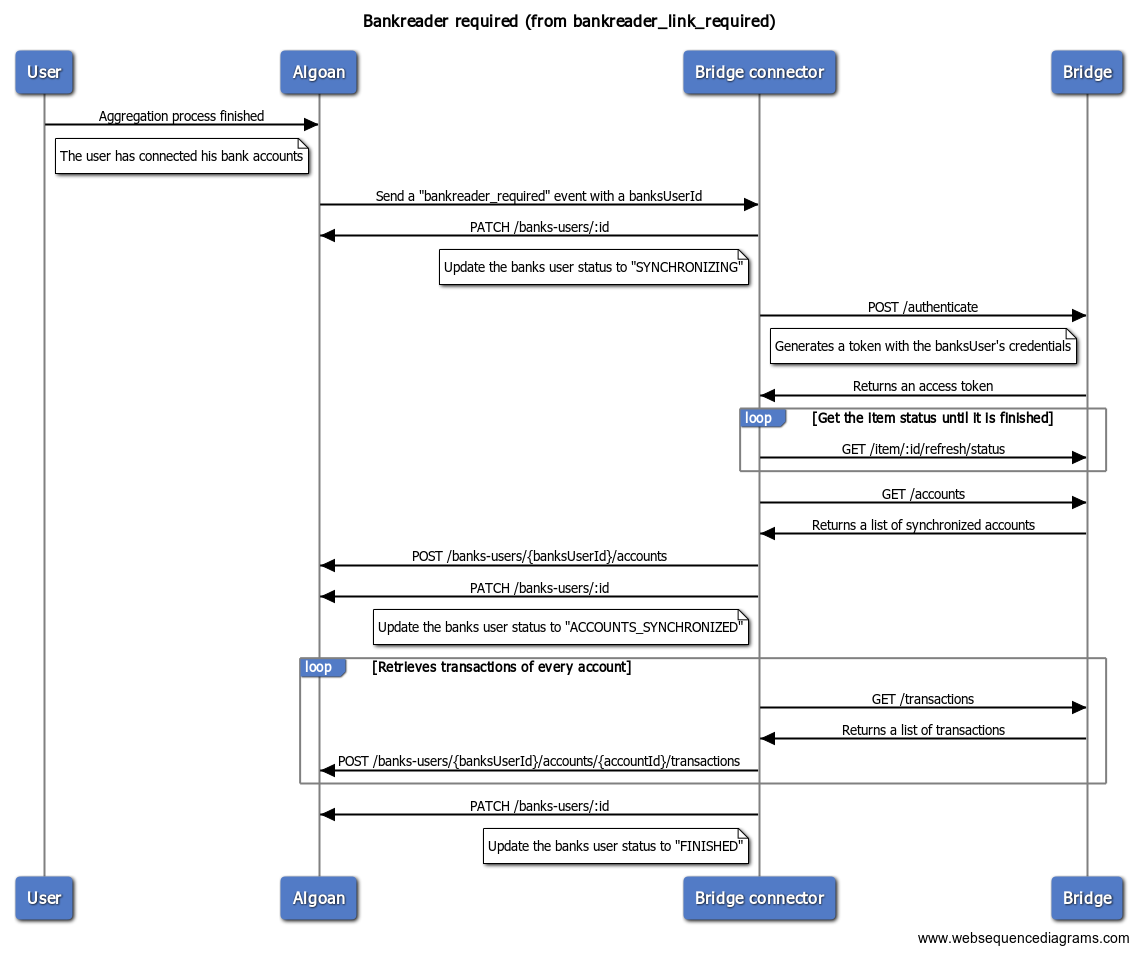
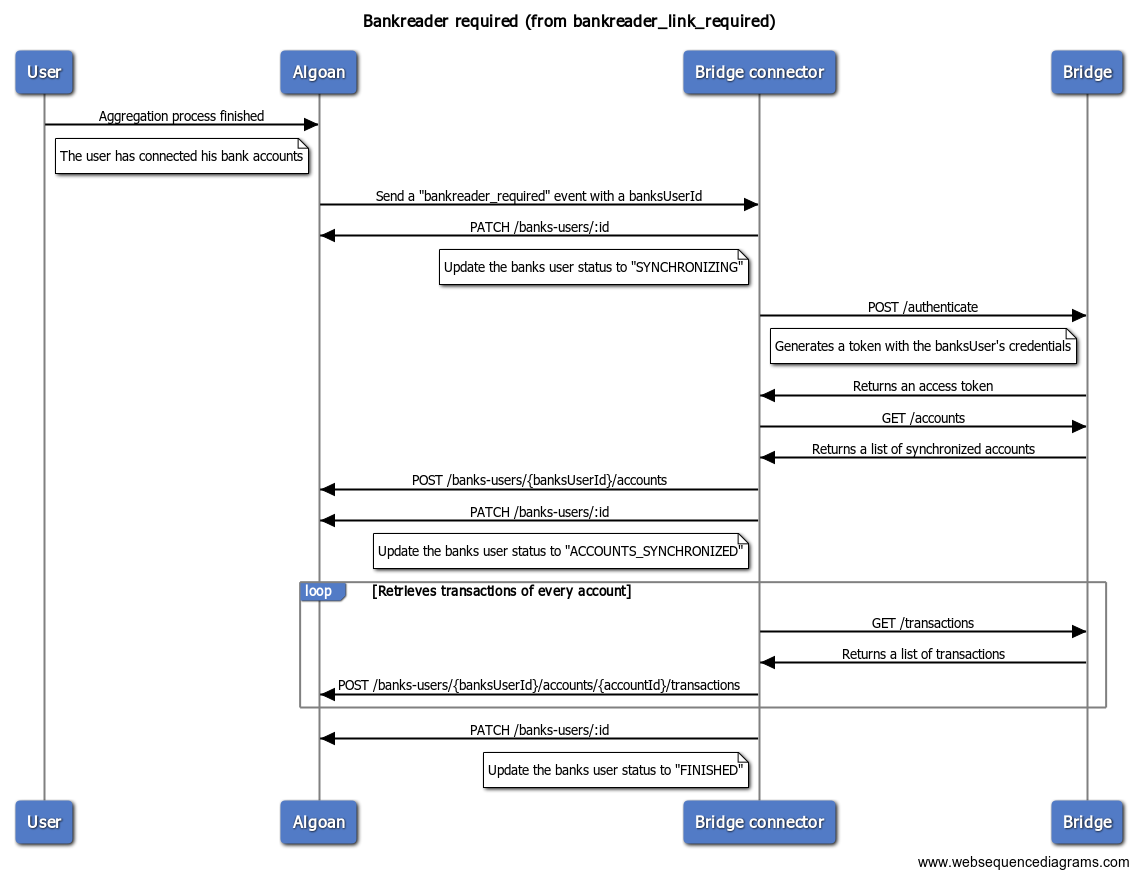
feat(bankreaderrequired): remove useless status check

diff --git a/src/hooks/services/hooks.service.ts b/src/hooks/services/hooks.service.ts
@@ -18,13 +18,12 @@ import * as moment from 'moment';
 import * as delay from 'delay';
 import { AlgoanService } from '../../algoan/algoan.service';
 import { AggregatorService } from '../../aggregator/services/aggregator.service';
-import { BridgeAccount, BridgeTransaction, BridgeItem } from '../../aggregator/interfaces/bridge.interface';
+import { BridgeAccount, BridgeTransaction } from '../../aggregator/interfaces/bridge.interface';
 import { mapBridgeAccount, mapBridgeTransactions } from '../../aggregator/services/bridge/bridge.utils';
 import { EventDTO } from '../dto/event.dto';
 import { BankreaderLinkRequiredDTO } from '../dto/bandreader-link-required.dto';
 import { BankreaderRequiredDTO } from '../dto/bankreader-required.dto';
 import { ClientConfig } from '../../aggregator/services/bridge/bridge.client';
-const SYNCHRONIZATION_WAITING_TIME: number = config.bridge.synchronizationWaitingTime;
 
 /**
  * Hook service
@@ -141,35 +140,7 @@ export class HooksService {
     const accessToken = await this.aggregator.getAccessToken(banksUser, serviceAccount.config as ClientConfig);
 
     /**
-     * 2. Fetch user active items
-     */
-    let synchronizationCompleted = false;
-    const timeout = moment().add(config.bridge.synchronizationTimeout, 'seconds');
-
-    while (!synchronizationCompleted && moment().isBefore(timeout)) {
-      const items: BridgeItem[] = await this.aggregator.getItems(accessToken, serviceAccount.config as ClientConfig);
-      synchronizationCompleted = true;
-      for (const item of items) {
-        if (item.status !== 0) {
-          synchronizationCompleted = false;
-          // Wait 5 seconds between each call
-          await delay(SYNCHRONIZATION_WAITING_TIME);
-        }
-      }
-    }
-
-    if (!synchronizationCompleted) {
-      const err = new Error('Synchronization failed');
-      this.logger.warn({
-        message: 'Synchronization failed after a timeout',
-        banksUserId: banksUser.id,
-        timeout: config.bridge.synchronizationTimeout,
-      });
-      throw err;
-    }
-
-    /**
-     * 3. Retrieves Bridge banks accounts and send them to Algoan
+     * 2. Retrieves Bridge banks accounts and send them to Algoan
      */
     const accounts: BridgeAccount[] = await this.aggregator.getAccounts(
       accessToken,
@@ -192,14 +163,14 @@ export class HooksService {
     });
 
     /**
-     * 4. Notify Algoan that the accounts have been synchronized
+     * 3. Notify Algoan that the accounts have been synchronized
      */
     await banksUser.update({
       status: BanksUserStatus.ACCOUNTS_SYNCHRONIZED,
     });
 
     /**
-     * 5. For each synchronized accounts, get transactions
+     * 4. For each synchronized accounts, get transactions
      */
     for (const account of createdAccounts) {
       const transactions: BridgeTransaction[] = await this.aggregator.getTransactions(
@@ -217,7 +188,7 @@ export class HooksService {
     }
 
     /**
-     * 6. Notify Algoan that the process is finished
+     * 5. Notify Algoan that the process is finished
      */
     await banksUser.update({
       status: BanksUserStatus.FINISHED,

diff --git a/src/hooks/services/hooks.service.spec.ts b/src/hooks/services/hooks.service.spec.ts
@@ -23,7 +23,7 @@ import { AlgoanModule } from '../../algoan/algoan.module';
 import { AppModule } from '../../app.module';
 import { AlgoanService } from '../../algoan/algoan.service';
 import { BankreaderLinkRequiredDTO } from '../dto/bandreader-link-required.dto';
-import { mockAccount, mockTransaction, mockItem } from '../../aggregator/interfaces/bridge-mock';
+import { mockAccount, mockTransaction } from '../../aggregator/interfaces/bridge-mock';
 import { mapBridgeAccount, mapBridgeTransactions } from '../../aggregator/services/bridge/bridge.utils';
 import { HooksService } from './hooks.service';
 
@@ -177,7 +177,6 @@ describe('HooksService', () => {
       .spyOn(mockServiceAccount, 'getBanksUserById')
       .mockReturnValue(Promise.resolve(mockBanksUser));
     const accessTokenSpy = jest.spyOn(aggregatorService, 'getAccessToken').mockResolvedValue('mockPermToken');
-    const itemsSpy = jest.spyOn(aggregatorService, 'getItems').mockResolvedValue([mockItem]);
     const accountSpy = jest.spyOn(aggregatorService, 'getAccounts').mockResolvedValue([mockAccount]);
     const banksUserAccountSpy = jest.spyOn(mockBanksUser, 'createAccounts').mockResolvedValue([banksUserAccount]);
     const transactionSpy = jest.spyOn(aggregatorService, 'getTransactions').mockResolvedValue([mockTransaction]);
@@ -192,7 +191,6 @@ describe('HooksService', () => {
 
     expect(serviceAccountSpy).toBeCalledWith(mockEvent.payload.banksUserId);
     expect(accessTokenSpy).toBeCalledWith(mockBanksUser, mockServiceAccountConfig);
-    expect(itemsSpy).toBeCalledWith('mockPermToken', mockServiceAccountConfig);
     expect(accountSpy).toBeCalledWith('mockPermToken', mockServiceAccountConfig);
     expect(resourceNameSpy).toBeCalledWith('mockPermToken', mockAccount.bank.resource_uri, mockServiceAccountConfig);
     expect(banksUserAccountSpy).toBeCalledWith(mappedAccount);

diff --git a/src/aggregator/services/aggregator.service.ts b/src/aggregator/services/aggregator.service.ts
@@ -1,6 +1,6 @@
 import { Injectable } from '@nestjs/common';
 import { IBanksUser } from '@algoan/rest';
-import { UserAccount, BridgeAccount, BridgeTransaction, BridgeItem } from '../interfaces/bridge.interface';
+import { UserAccount, BridgeAccount, BridgeTransaction } from '../interfaces/bridge.interface';
 import { BridgeClient, ClientConfig } from './bridge/bridge.client';
 
 /**
@@ -72,12 +72,5 @@ export class AggregatorService {
    */
   public async getResourceName(accessToken: string, bridgeUri: string, clientConfig?: ClientConfig): Promise<string> {
     return this.bridgeClient.getResourceName(accessToken, bridgeUri, clientConfig);
-  }
-
-  /**
-   * Returns the Items related to a user
-   */
-  public async getItems(accessToken: string, clientConfig?: ClientConfig): Promise<BridgeItem[]> {
-    return this.bridgeClient.getItems(accessToken, clientConfig);
   }
 }

diff --git a/src/aggregator/services/bridge/bridge.client.ts b/src/aggregator/services/bridge/bridge.client.ts
@@ -11,7 +11,6 @@ import {
   BridgeTransaction,
   BridgeBank,
   BridgeCategory,
-  BridgeItem,
 } from '../../interfaces/bridge.interface';
 
 /**
@@ -130,19 +129,6 @@ export class BridgeClient {
 
       return 'UNKNOWN';
     }
-  }
-
-  /**
-   * Get a bridge user's items
-   */
-  public async getItems(accessToken: string, clientConfig?: ClientConfig): Promise<BridgeItem[]> {
-    const url: string = `${config.bridge.baseUrl}/v2/items`;
-
-    const resp: AxiosResponse<ListResponse<BridgeItem>> = await this.httpService
-      .get(url, { headers: { Authorization: `Bearer ${accessToken}`, ...BridgeClient.getHeaders(clientConfig) } })
-      .toPromise();
-
-    return resp.data.resources;
   }
 
   /**

diff --git a/src/aggregator/interfaces/bridge-mock.ts b/src/aggregator/interfaces/bridge-mock.ts
@@ -3,7 +3,6 @@ import {
   BridgeAccountStatus,
   BridgeAccountType,
   BridgeTransaction,
-  BridgeItem,
   UserResponse,
   AuthenticationResponse,
 } from './bridge.interface';
@@ -82,8 +81,4 @@ export const mockAuthResponse: AuthenticationResponse = {
   user: mockUserResponse,
   access_token: 'mockAccessToken',
   expires_at: 'mockDate',
-};
-
-export const mockItem: BridgeItem = {
-  status: 0,
 };

diff --git a/src/aggregator/interfaces/bridge.interface.ts b/src/aggregator/interfaces/bridge.interface.ts
@@ -174,11 +174,3 @@ export interface BridgeCategory {
     resource_type: string;
   };
 }
-
-/**
- * Bridge Item
- * (for now, we only need those fields)
- */
-export interface BridgeItem {
-  status: number;
-}

diff --git a/README.md b/README.md
@@ -148,8 +148,6 @@ To configure your application properly, here is a list of key to set:
 | `bridge.clientId` | No | _string_ | Bridge Client ID for the sandbox |
 | `bridge.clientSecret` | No | _string_ | Bridge Client secret for the sandbox |
 | `bridge.bankinVersion` | No | _string_ | Bankin version |
-| `bridge.synchronizationTimeout` | No | _number_ | Timeout in seconds after each the synchronization trial is cancelled |
-| `bridge.synchronizationWaitingTime` | No | _number_ | Time in seconds to wait between each call to get items |
 | `targetUrl` | No | _string_ | Target URL for your resthook. See [the documentation](https://developers.algoan.com/public/docs/algoan_documentation/resthooks_and_events/resthooks.html#managing-your-resthook) for more information |
 | `eventList` | No | _array<string>_ | Event List you want to subscribe to |
 | `restHooksSecret` | No | _string_ | Resthooks secrets ensuring that all calls are made by Algoan. See [the documentation](https://developers.algoan.com/public/docs/algoan_documentation/resthooks_and_events/resthooks.html#validating-resthook-events) for more information |
